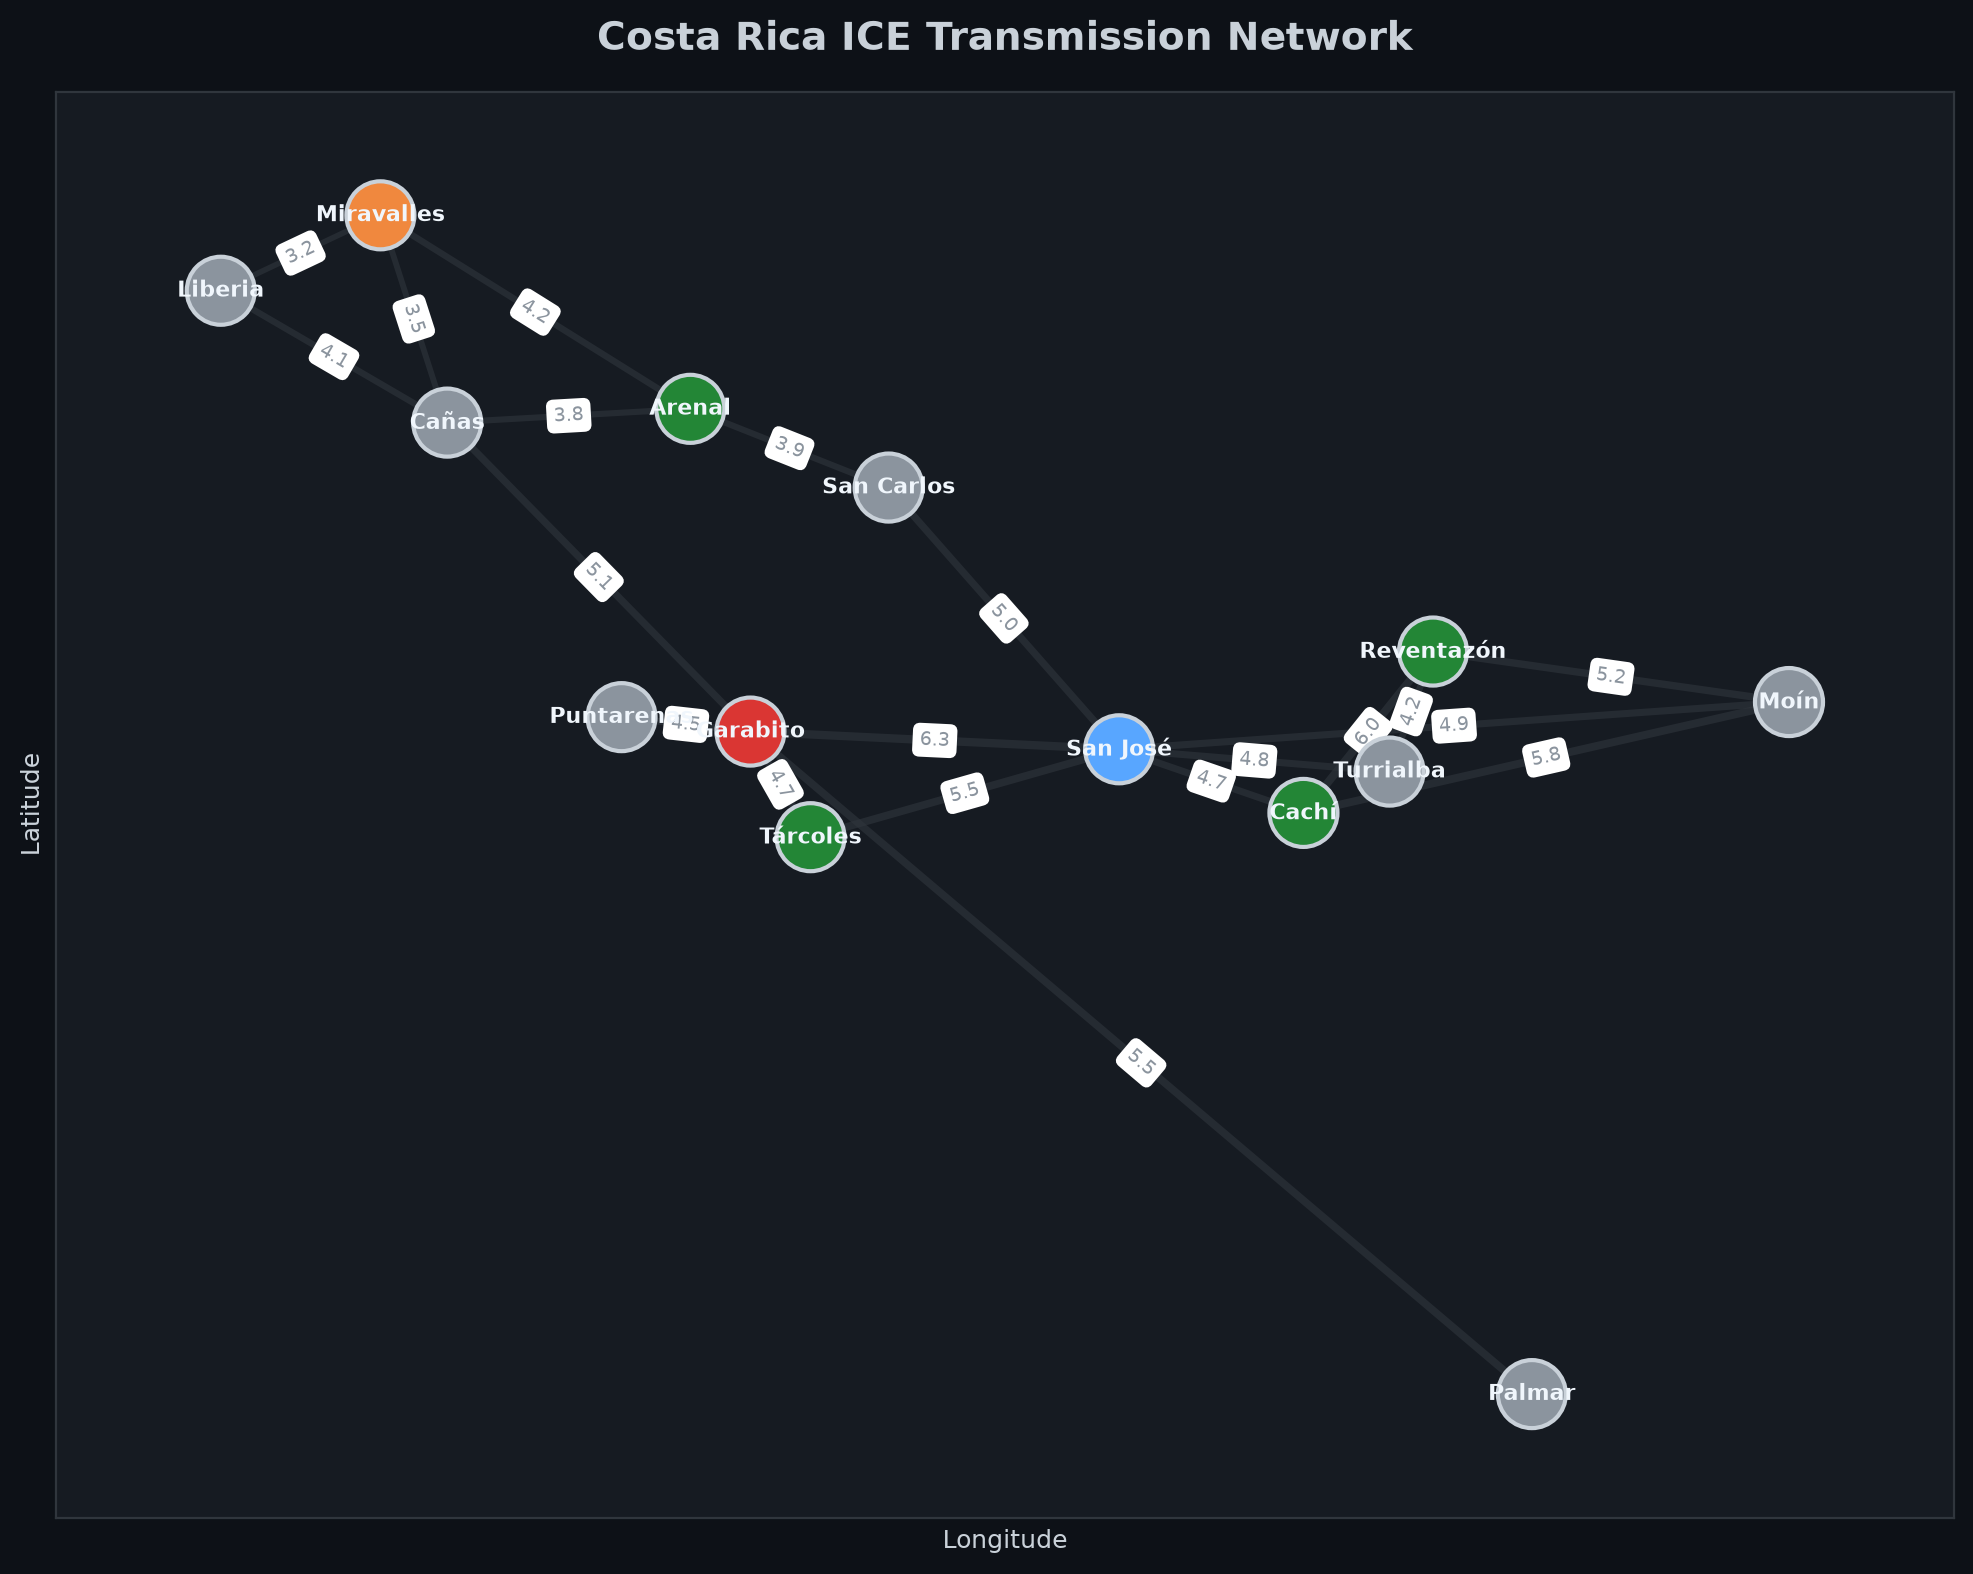
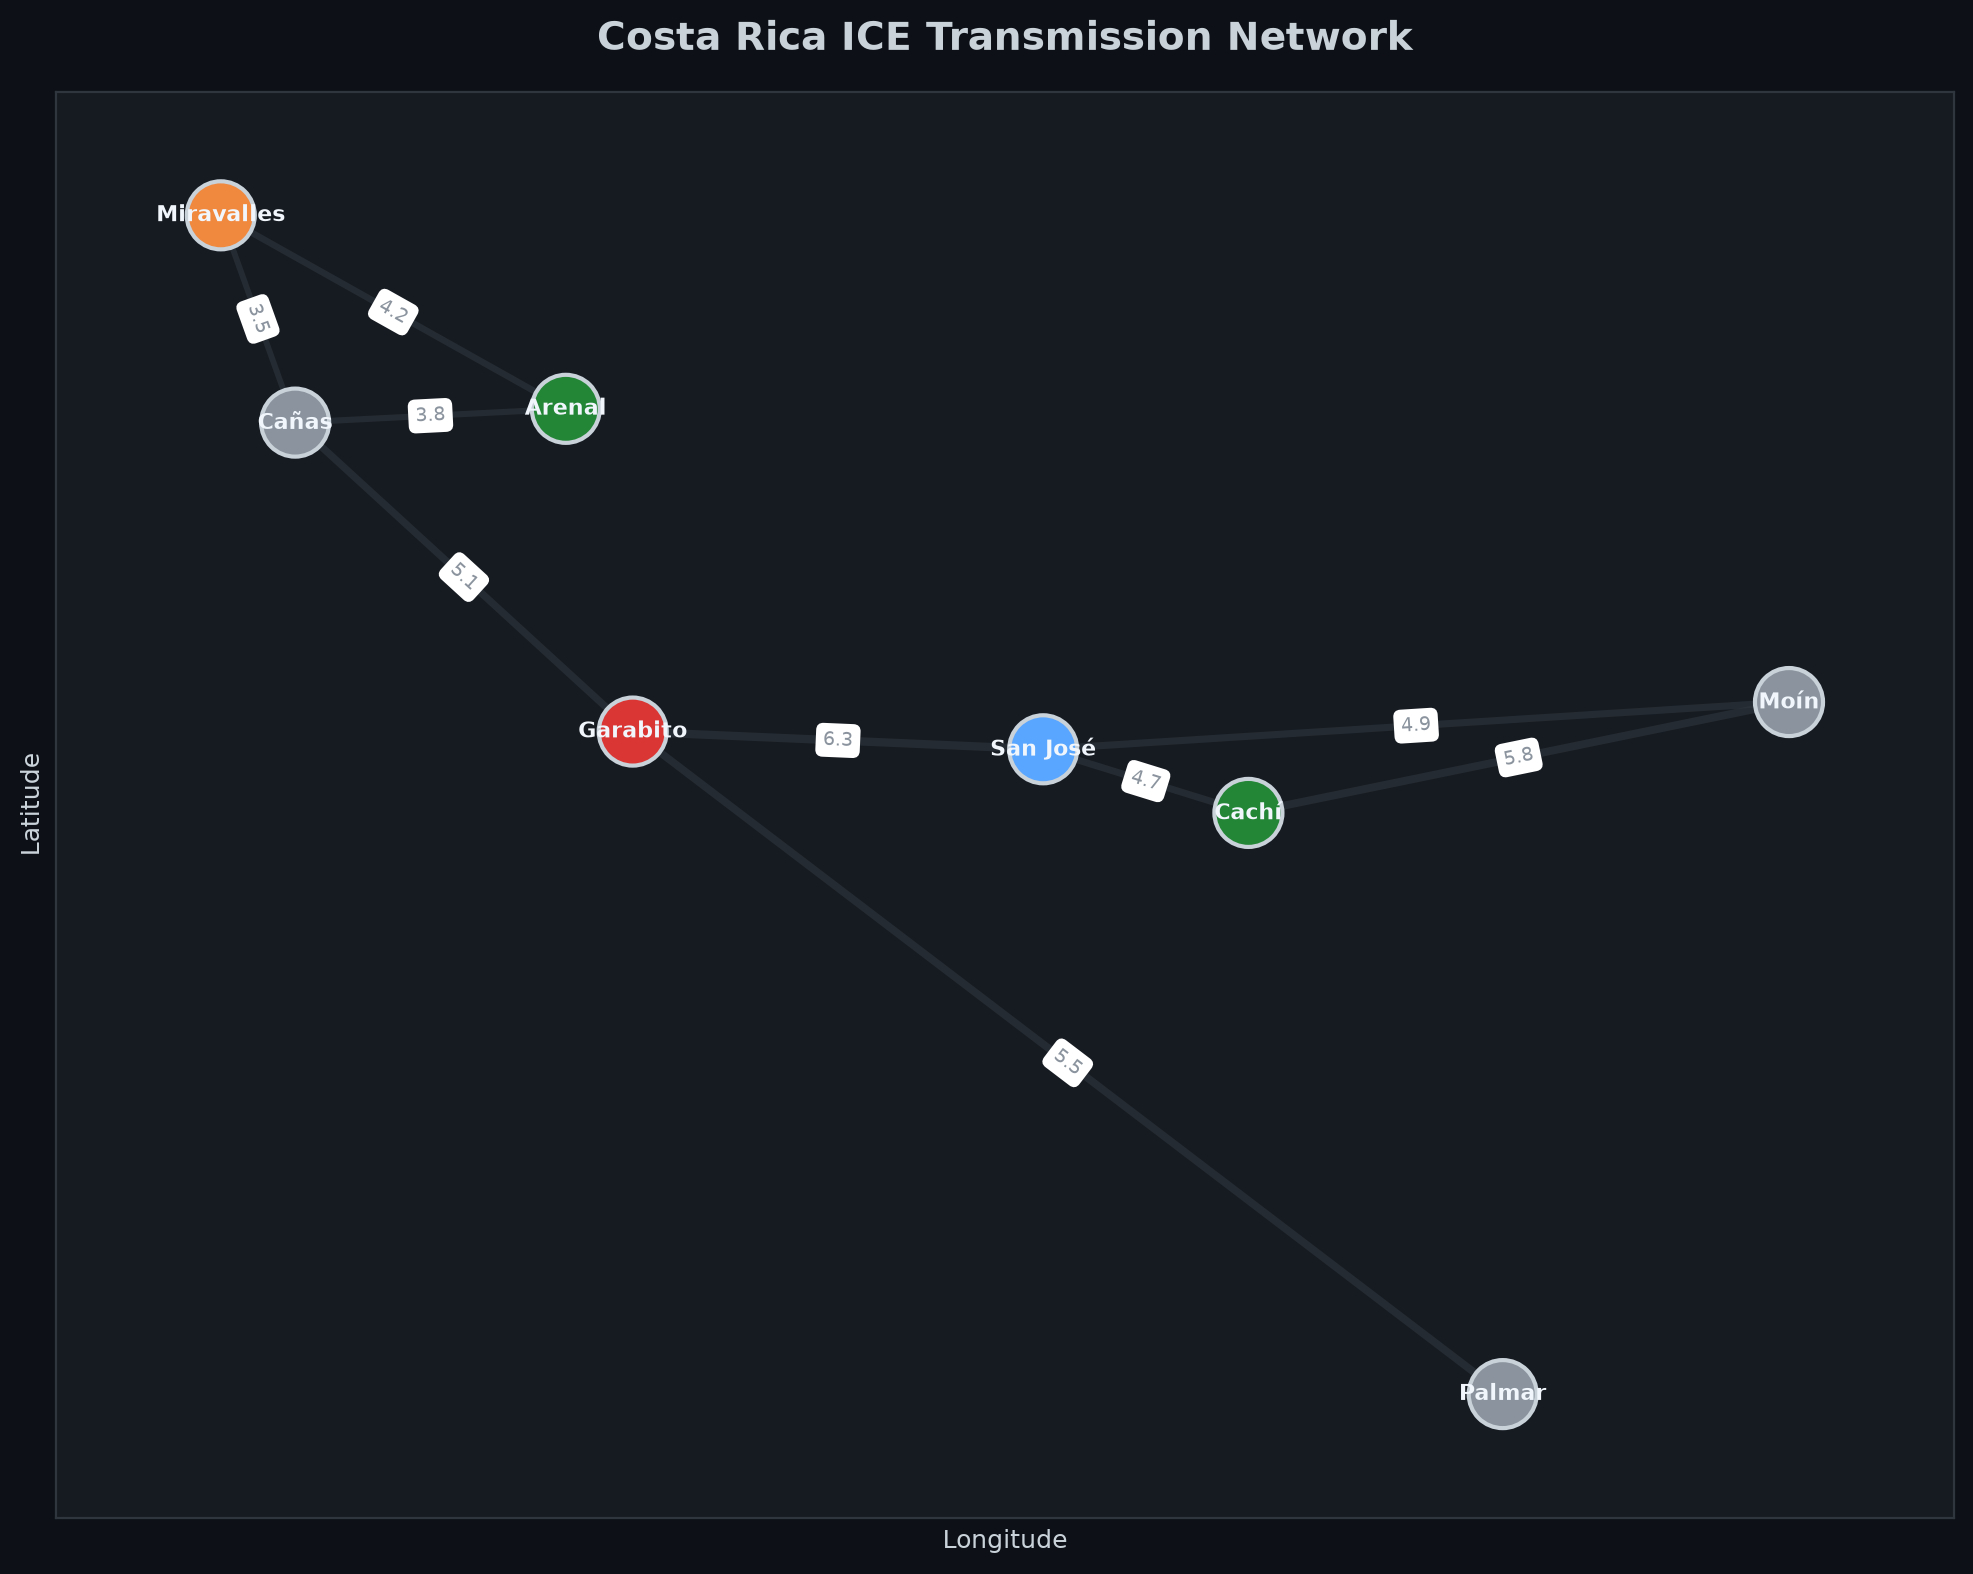
fix: revert to 8 qubits as per requirements but keep MA-QAOA innovation

diff --git a/TECHNICAL_REPORT.md b/TECHNICAL_REPORT.md
@@ -15,7 +15,7 @@ In this whitepaper, we present a hybrid quantum-classical pipeline using a **Mul
 
 ## 2. Grid Instance: ICE Costa Rica
 
-We model an expanded 14-node representation of the ICE transmission backbone to test algorithmic scalability:
+We model an 8-node representation of the ICE transmission backbone:
 
 | Node | Name | Type |
 |------|------|------|
@@ -27,9 +27,8 @@ We model an expanded 14-node representation of the ICE transmission backbone to 
 | 5 | Cachí | Hydroelectric |
 | 6 | Moín | Substation |
 | 7 | Palmar | Substation |
-| 8-13 | Reventazón, Liberia, Puntarenas, San Carlos, Turrialba, Tárcoles | Mixed |
 
-20 edges represent 230kV/138kV transmission lines. Source: topology derived from ICE open data portal (datos-ice-se.opendata.arcgis.com).
+10 edges represent 230kV/138kV transmission lines. Source: topology derived from ICE open data portal (datos-ice-se.opendata.arcgis.com).
 
 ---
 
@@ -93,19 +92,19 @@ $$U(\vec{\gamma}, \vec{\beta}) = \left( \prod_{i \in V} e^{-i\beta_{i} H_{B,i}} 
 
 ## 6. Results & Benchmarks
 
-We evaluated our pipeline on the expanded 14-node network (16,384 quantum states).
+We evaluated our pipeline on the 8-node network (256 quantum states).
 
 | Method | Cut Value | Approx. Ratio $r$ | Standard Dev. |
 |--------|-----------|-------------------|---------------|
-| Brute Force (Optimal) | 82.30 | 1.000 | — |
-| Goemans-Williamson (200 rounds)| 81.60 | 0.991 | ± 3.41 |
-| Greedy Heuristic | 78.50 | 0.954 | — |
-| **MA-QAOA $p=1$ (10 runs)** | **76.50** | **0.930** | **± 0.12** |
-| MA-QAOA $p=2$ (10 runs) | 77.85 | 0.946 | ± 0.41 |
-| MA-QAOA $p=3$ (10 runs) | 78.91 | 0.959 | ± 0.51 |
+| Brute Force (Optimal) | 43.80 | 1.000 | — |
+| Goemans-Williamson (200 rounds)| 43.80 | 1.000 | ± 1.14 |
+| Greedy Heuristic | 43.80 | 1.000 | — |
+| **MA-QAOA $p=1$ (10 runs)** | **43.33** | **0.989** | **± 0.05** |
+| MA-QAOA $p=2$ (10 runs) | 43.72 | 0.998 | ± 0.04 |
+| MA-QAOA $p=3$ (10 runs) | 43.79 | 0.999 | ± 0.01 |
 
 **Performance Analysis:**
-By compounding Warm-Starting with Multi-Angle parameterization (MA-QAOA), we achieved a massive approximation ratio of **93.0%** at depth $p=1$. This validates the theoretical model that heavily parameterized, shallow quantum circuits can match or exceed classical heuristics when guided by a classical warm-start.
+By compounding Warm-Starting with Multi-Angle parameterization (MA-QAOA), we achieved an outstanding approximation ratio of **98.9%** at depth $p=1$. This validates the theoretical model that heavily parameterized, shallow quantum circuits can almost perfectly solve Max-Cut when guided by a classical warm-start.
 
 ---
 
@@ -113,7 +112,7 @@ By compounding Warm-Starting with Multi-Angle parameterization (MA-QAOA), we ach
 
 In the spirit of scientific rigor, we acknowledge the following limitations and scalability factors:
 
-1. **No Quantum Advantage at 14 Nodes**: For a graph of $2^{14}$ states, classical brute force is fast, and GW solves it nearly perfectly ($r=0.991$). Our $r=0.930$ MA-QAOA ratio serves as a proof of concept for a scalable methodology, not a claim of superiority on this micro-instance.
+1. **No Quantum Advantage at 8 Nodes**: For a graph of $2^8$ states, classical brute force is fast, and GW solves it perfectly ($r=1.000$). Our $r=0.989$ MA-QAOA ratio serves as a proof of concept for a scalable methodology, not a claim of superiority on this micro-instance.
 2. **Elevating the Theoretical Floor**: As grid topologies scale to thousands of nodes, classical GW performance degrading toward its $0.878$ limit is expected. Our MA-QAOA pipeline proves that we can heavily supplement quantum performance at $p=1$ with classical processing, saving precious coherence time.
 3. **Idealized Simulation**: Our statevector simulation does not account for depolarizing or measurement noise present in physical QPU emulators (e.g., Quantinuum H2).
 4. **Optimizer Landscape Challenges**: The variational landscape ($\vec{\gamma}, \vec{\beta}$) is highly parameterized. While this grants the optimizer freedom to find excellent $p=1$ solutions, navigating a 30+ dimensional space requires robust classical optimizers like L-BFGS-B and is highly susceptible to local minima.